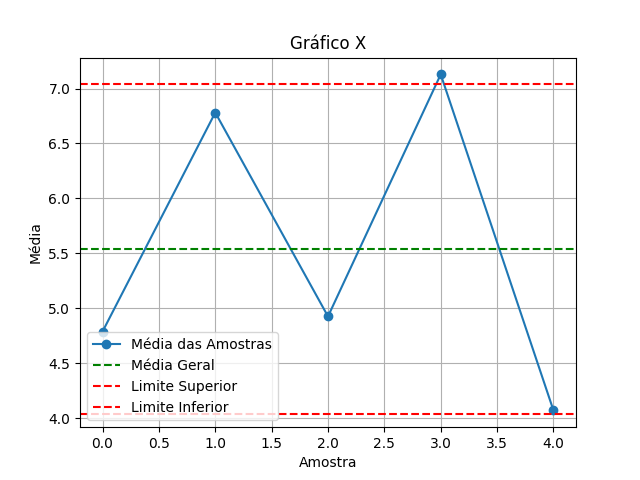
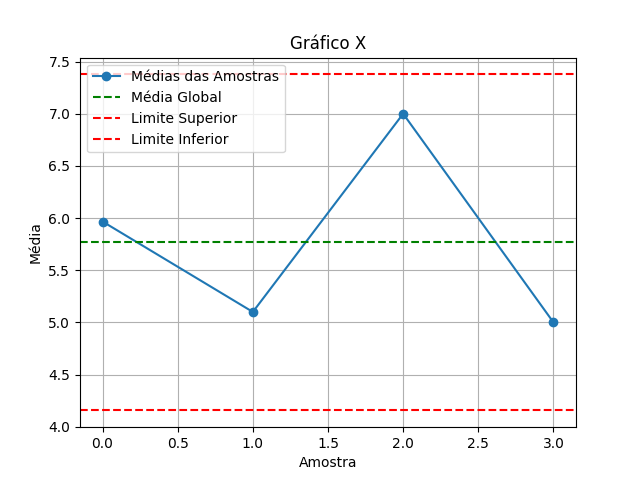
Back-end pronto

diff --git a/codigo/templates/index.html b/codigo/templates/index.html
@@ -2,6 +2,14 @@
 
 {% block content %}
 <h1>Gráficos de Controle Estatístico de Processo</h1>
-<p>Os gráficos de controle são ferramentas utilizadas para monitorar a estabilidade de um processo.</p>
-<p>Escolha entre os gráficos de controle de \( \bar{X} \) (médias) ou \( R \) (alcances) para visualizar e analisar seus dados.</p>
+<p>O gráfico de controle estatístico de processo R e X é usado para monitorar a média (X) e a variação representada pelo alcance R de um processo ao longo do tempo. </p>
+<p>Ele é amplamente utilizado em controle de qualidade para verificar se um processo está sob controle estatístico.</p>
+<h1>Componentes dos gráficos:</h1>
+<p>- Gráfico X</p>
+<p>. Monitora a média das amostras do processo.</p>
+<p>. Exibe limites de controle superior (UCL) e inferior (LCL), que determinam se a média está dentro de limites aceitáveis.</p>
+<p>- Gráfico R</p>
+<p>. Monitora a variabilidade do processo, utilizando o alcance R, que é a diferença entre o maior e o menor valor em cada amostra.</p>
+<p>. Também tem limites de controle superior e inferior.</p>
+
 {% endblock %}

diff --git a/codigo/templates/graficox.html b/codigo/templates/graficox.html
@@ -4,6 +4,7 @@
 <h1>Gráfico X</h1>
 
 {% if not dados %}
+<!-- Etapa 1: Solicitação do número de amostras e tamanho da amostra -->
 <form method="POST">
     <label for="num_amostras">Número de Amostras:</label>
     <input type="number" name="num_amostras" id="num_amostras" required>
@@ -12,10 +13,11 @@
     <button type="submit">Próximo</button>
 </form>
 {% else %}
+<!-- Etapa 2: Solicitação dos valores das amostras -->
 <form method="POST">
-    <input type="hidden" name="num_amostras" value="{{ dados|length }}">
-    <input type="hidden" name="tamanho_amostra" value="{{ dados[0]|length }}">
-    {% for i in range(dados|length) %}
+    <input type="hidden" name="num_amostras" value="{{ dados.num_amostras }}">
+    <input type="hidden" name="tamanho_amostra" value="{{ dados.tamanho_amostra }}">
+    {% for i in range(dados.num_amostras) %}
         <label for="amostra_{{ i+1 }}">Valores da Amostra {{ i+1 }} (separados por vírgula):</label>
         <input type="text" name="amostra_{{ i+1 }}" required>
     {% endfor %}

diff --git a/codigo/static/css/style.css b/codigo/static/css/style.css
@@ -5,13 +5,13 @@ body {
 }
 
 nav {
-    background-color: #007BFF;
-    color: white;
+    background-color: #f7ff87;
     padding: 10px;
+    text-align: center;
 }
 
 nav a {
-    color: white;
+    color: black;
     margin: 0 15px;
     text-decoration: none;
 }
@@ -40,12 +40,12 @@ form input {
 
 form button {
     padding: 10px 15px;
-    background-color: #007BFF;
-    color: white;
+    background-color: #f7ff87;
+    color: black;
     border: none;
     cursor: pointer;
 }
 
 form button:hover {
-    background-color: #0056b3;
+    background-color: #eeff02;
 }

diff --git a/codigo/app.py b/codigo/app.py
@@ -19,43 +19,56 @@ def index():
 @app.route("/graficox", methods=["GET", "POST"])
 def graficox():
     if request.method == "POST":
-        # Obter os dados do formulário
-        num_amostras = int(request.form["num_amostras"])
-        tamanho_amostra = int(request.form["tamanho_amostra"])
-        
-        # Recolher os dados fornecidos pelo usuário
-        amostras = []
-        for i in range(num_amostras):
-            valores = request.form[f"amostra_{i+1}"].split(",")
-            valores = [float(v) for v in valores]
-            amostras.append(valores)
-        
-        # Calcular médias das amostras
-        medias = [np.mean(amostra) for amostra in amostras]
-        media_geral = np.mean(medias)
-        limite_superior = media_geral + 1.5
-        limite_inferior = media_geral - 1.5
+        # Etapa 1: Receber número de amostras e tamanho da amostra
+        if "num_amostras" in request.form and "tamanho_amostra" in request.form and "amostra_1" not in request.form:
+            num_amostras = int(request.form["num_amostras"])
+            tamanho_amostra = int(request.form["tamanho_amostra"])
 
-        # Gerar gráfico
-        plt.figure()
-        plt.plot(medias, marker="o", label="Média das Amostras")
-        plt.axhline(y=media_geral, color="green", linestyle="--", label="Média Geral")
-        plt.axhline(y=limite_superior, color="red", linestyle="--", label="Limite Superior")
-        plt.axhline(y=limite_inferior, color="red", linestyle="--", label="Limite Inferior")
-        plt.title("Gráfico X")
-        plt.xlabel("Amostra")
-        plt.ylabel("Média")
-        plt.legend()
-        plt.grid()
+            # Preparar a página para inserir os valores das amostras
+            dados = {"num_amostras": num_amostras, "tamanho_amostra": tamanho_amostra}
+            return render_template("graficox.html", dados=dados, grafico_path=None)
 
-        # Salvar gráfico
-        filepath = os.path.join(GRAPH_DIR, "grafico_x.png")
-        plt.savefig(filepath)
-        plt.close()
+        # Etapa 2: Receber os valores das amostras
+        elif "amostra_1" in request.form:
+            num_amostras = int(request.form["num_amostras"])
+            tamanho_amostra = int(request.form["tamanho_amostra"])
 
-        return render_template("graficox.html", grafico_path=filepath, dados=amostras)
+            # Recolher os dados fornecidos pelo usuário
+            amostras = []
+            for i in range(num_amostras):
+                valores = request.form[f"amostra_{i+1}"].split(",")
+                valores = [float(v) for v in valores]
+                amostras.append(valores)
 
+            # Calcular médias das amostras
+            medias = [np.mean(amostra) for amostra in amostras]
+            media_global = np.mean(medias)
+            desvio_padrao = np.std(medias)
+            limite_superior = media_global + (2 * desvio_padrao)
+            limite_inferior = media_global - (2 * desvio_padrao)
+
+            # Gerar gráfico
+            plt.figure()
+            plt.plot(medias, marker="o", label="Médias das Amostras")
+            plt.axhline(y=media_global, color="green", linestyle="--", label="Média Global")
+            plt.axhline(y=limite_superior, color="red", linestyle="--", label="Limite Superior")
+            plt.axhline(y=limite_inferior, color="red", linestyle="--", label="Limite Inferior")
+            plt.title("Gráfico X")
+            plt.xlabel("Amostra")
+            plt.ylabel("Média")
+            plt.legend()
+            plt.grid()
+
+            # Salvar gráfico
+            filepath = os.path.join(GRAPH_DIR, "grafico_x.png")
+            plt.savefig(filepath)
+            plt.close()
+
+            return render_template("graficox.html", grafico_path=filepath, dados=None)
+
+    # Primeira vez acessando a página
     return render_template("graficox.html", grafico_path=None, dados=None)
+
 
 # Rota para o gráfico R
 @app.route("/graficor", methods=["GET", "POST"])
